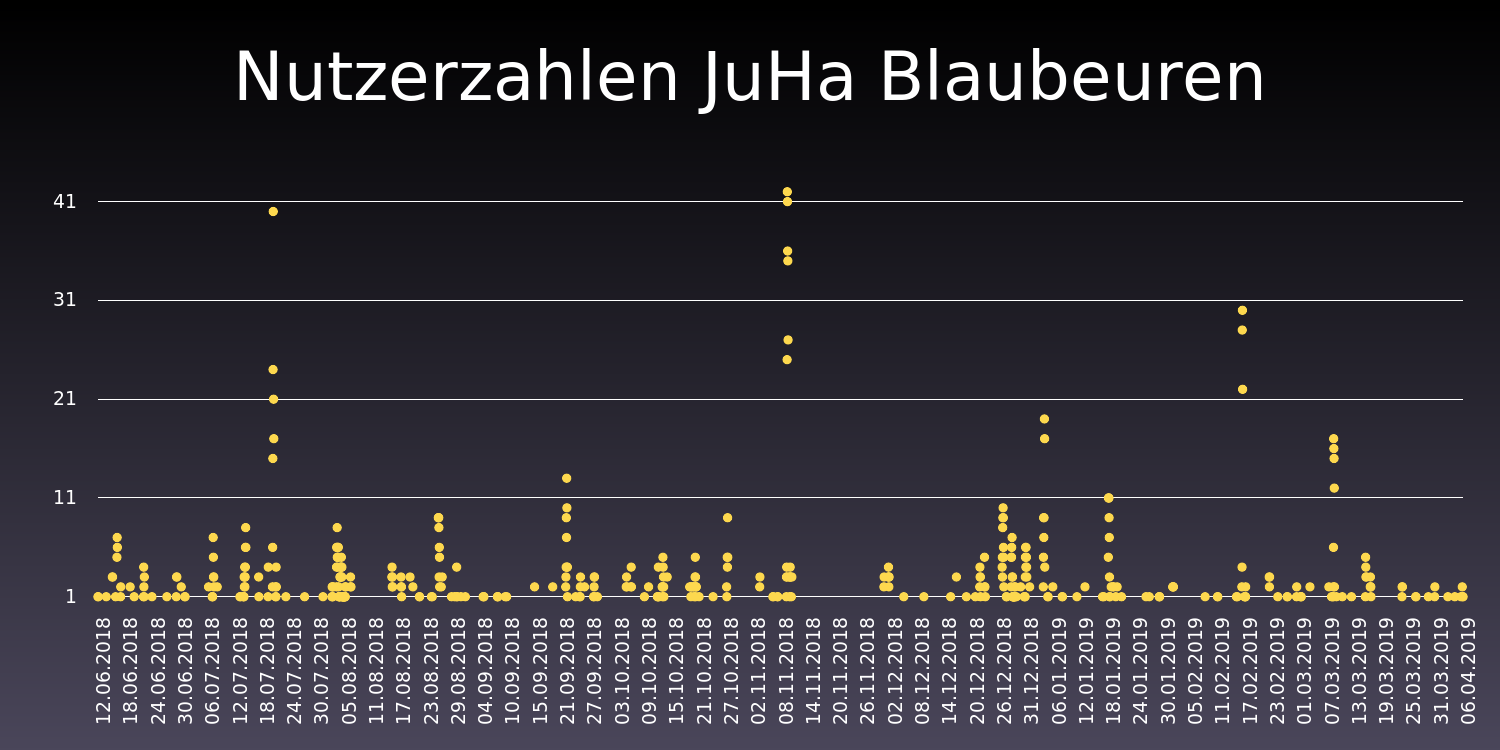
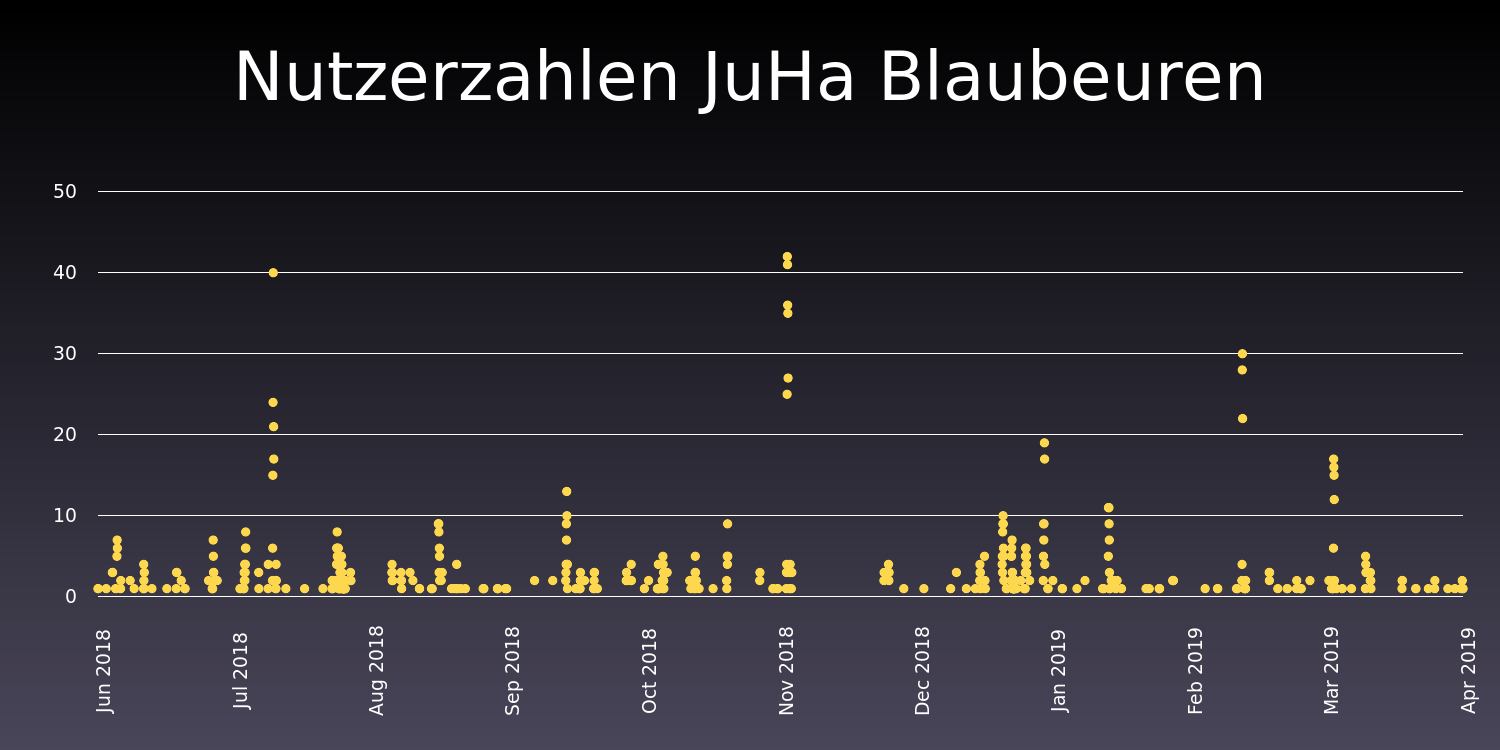
Graphing verbessert

diff --git a/ffanalyse.rb b/ffanalyse.rb
@@ -19,9 +19,9 @@ def make_date_labels graph
     graph.disable_significant_rounding_x_axis = true
     graph.use_vertical_x_labels = true
     #graph.enable_vertical_line_markers = true
-    graph.marker_x_count = 50 # One label every 2 days
+    graph.marker_x_count = 10 # One label every 2 days
     graph.x_axis_label_format = lambda do |value|
-      DateTime.strptime(value.to_i.to_s,'%s').strftime('%d.%m.%Y')
+      DateTime.strptime(value.to_i.to_s,'%s').strftime('%b %Y')
     end
    # graph.y_axis_increment = 1
 end
@@ -53,6 +53,8 @@ juha_graph.hide_legend = true
 juha_graph.marker_font_size = 10
 #juha_graph.stroke_width = 0.01
 make_date_labels(juha_graph)
+juha_graph.maximum_value = 50
+juha_graph.minimum_value = 0.0
 juha_graph.write('plots/stats-juha-new.png')
 
 
